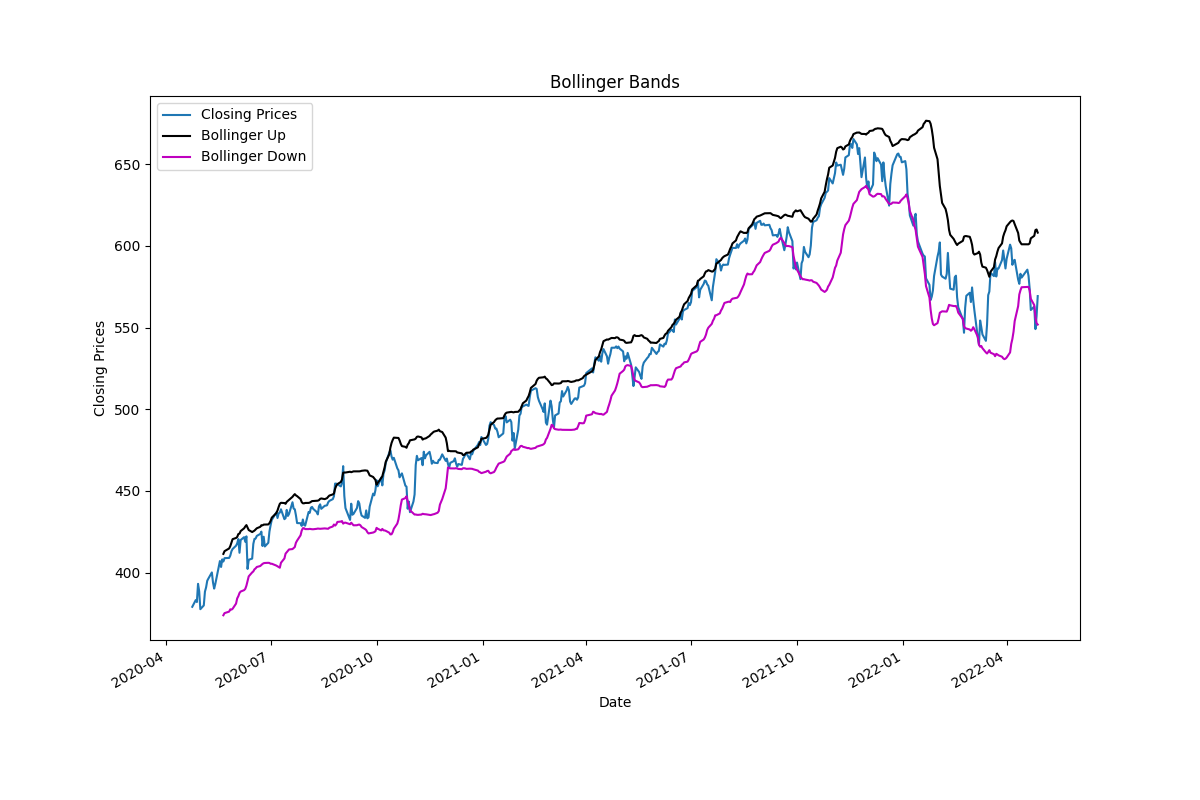
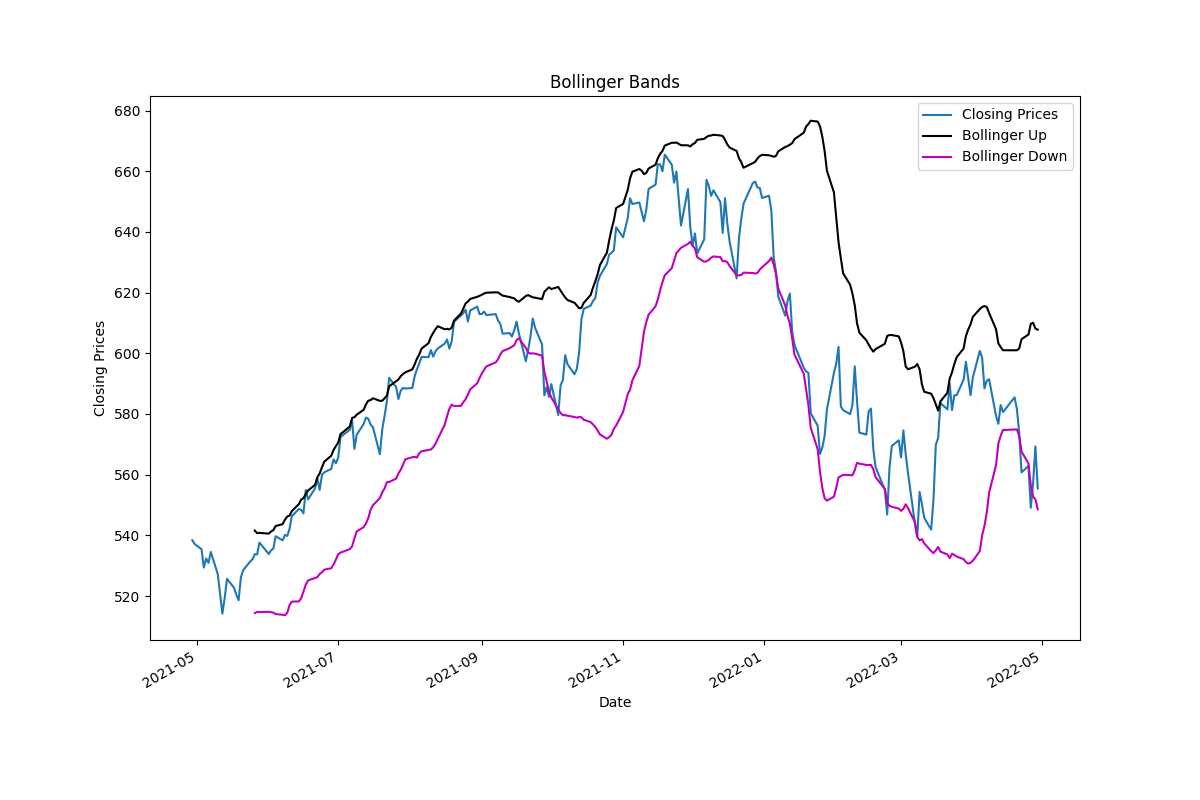
Limit days in Bollinger Bands analysis to 253

diff --git a/gsef_bollinger_bands.py b/gsef_bollinger_bands.py
@@ -20,7 +20,7 @@ def get_num_lines(fname):
 
 num_lines = get_num_lines("gsef_output/historical_gsef.csv")
 
-n = 506 #load the data of 2 trading years (number of trading days per year is 253)
+n = 253 #load the data of 1 trading year (number of trading days per year is 253)
 df = pd.read_csv("gsef_output/historical_gsef.csv", skiprows=range(1, num_lines-n), parse_dates=['Date'], usecols= ["Date", "Close"], dayfirst=True)
 
 closing_prices = df['Close'] # Use only closing prices
